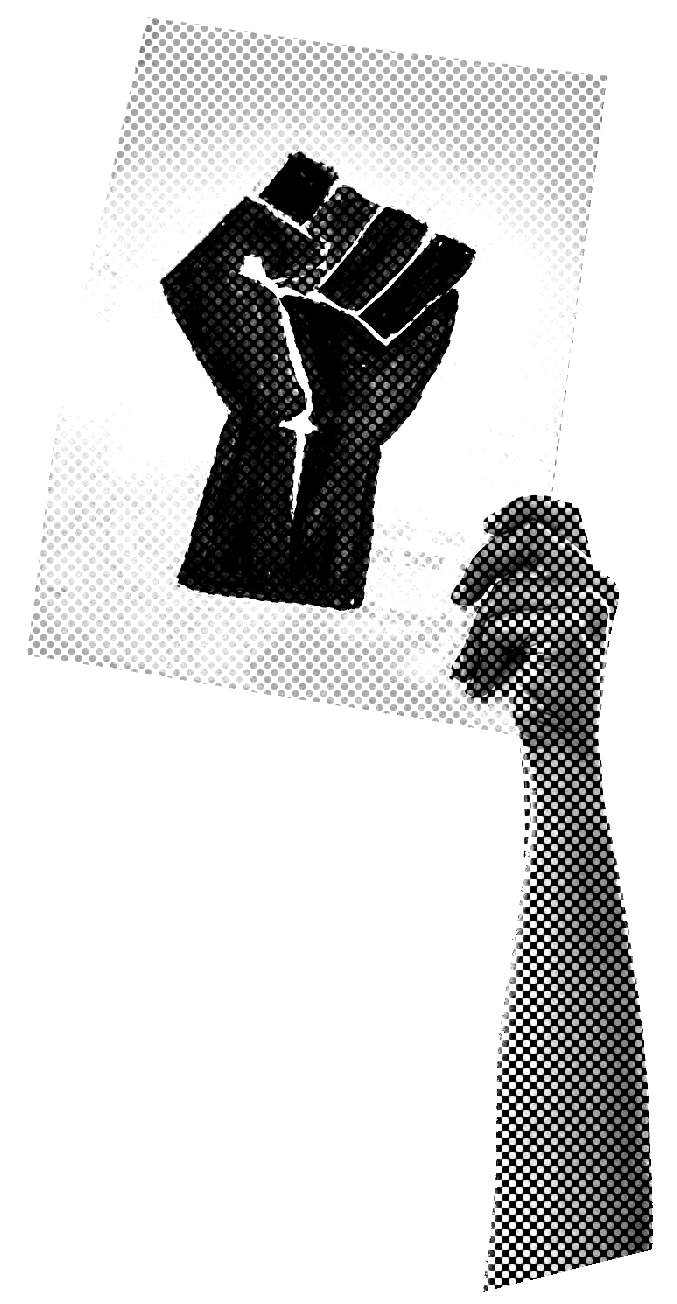
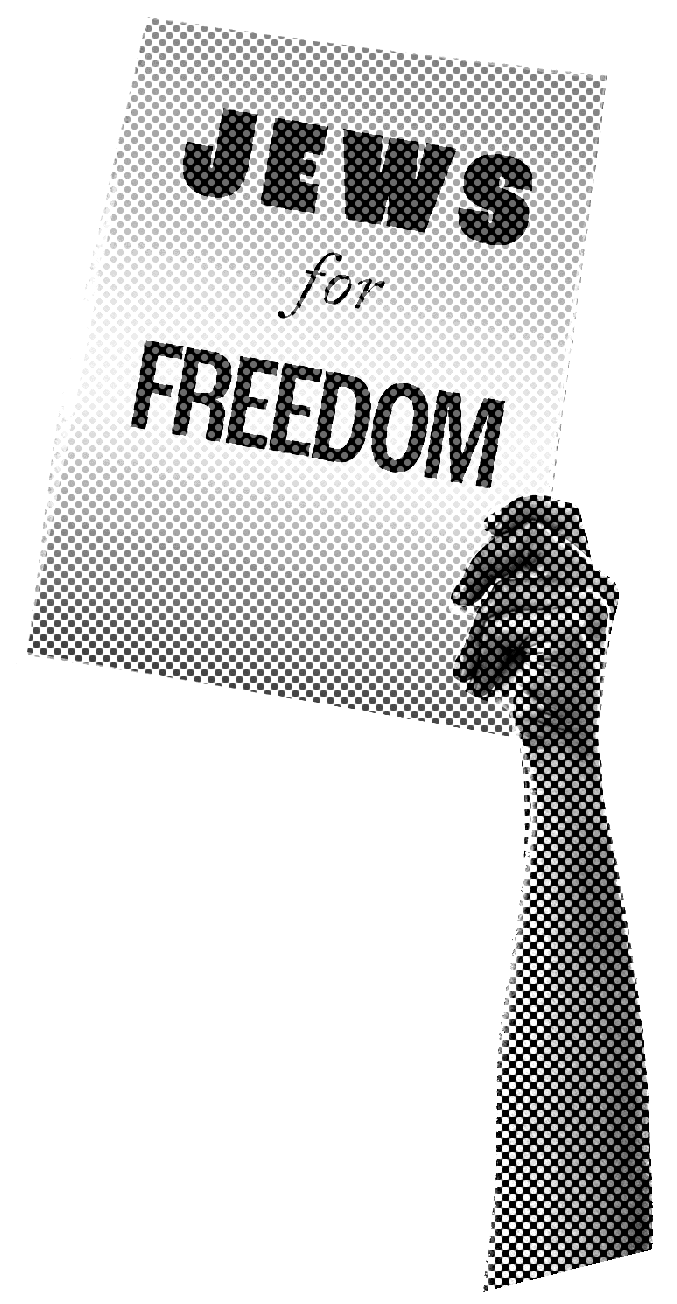
updates images

Changed region(s): [[0.031, 0.0, 0.8996, 0.5828]]

diff --git a/pages/index.vue b/pages/index.vue
@@ -2,8 +2,9 @@
   <div>
     <!-- Hero / Introduction -->
     <section id="hero" class="border-t-4 border-brand-primary overflow-hidden">
-      <div class="py-16 bg-blend-color-burn bg-brand-background bg-cover bg-bottom border-b border-brand-background-dark">
-        <NuxtImg src="/logo-square.png" alt="Jews for Freedom" class="mx-auto" />
+      <div class="pt-16 border-b border-brand-background-dark bg-gradient-to-b from-brand-background-light via-brand-background to-brand-background-dark">
+        <NuxtImg src="/logo-square.png" alt="Jews for Freedom" class="mx-auto md:max-h-[40vh]" />
+        <NuxtImg src="/img/shofar-fist.png"  class="mx-auto pt-8 mix-blend-color-burn md:max-h-[40vh]" />
       </div>
       <NavSmall class="my-6" />
     </section>
@@ -11,17 +12,14 @@
     <section id="introduction" class="overflow-hidden">
       <div class="mx-auto max-w-prose px-4">
         <article class="prose prose-neutral text-xl leading-relaxed max-w-none">
-          <ShapedImage src="/img/arm-poster.png" class="float-right -mr-8 my-0 sm:-mr-14  max-w-[40vw] max-h-[40vh]" />
+          <ShapedImage src="/img/flowers.png" class="float-right -mr-8 mt-16 sm:-mr-14  max-w-[50vw] max-h-[70vh]" />
           <p>Major Jewish organizations and individuals are launching a full-throated and widespread Jewish resistance to authoritarianism as part of a broader multi-faith effort. The overall resistance is occurring across all lines of difference, including race, gender, class, financial status, sexual orientation, age, ability, and religion. Showing up as Jews, as individuals and as communities, is part of a long-standing tradition we take pride in.</p>
         </article>
       </div>
     </section>
 
-    <!-- Parallax Fists -->
-    <ParallaxFists class="h-48 -mb-4 z-0 w-full border-b border-brand-background-dark" />
-
     <!-- Statement -->
-    <section id="statement" class="px-8 py-8 z-10 relative bg-white max-w-3xl mx-auto shadow-[6px_6px_0px_rgba(0,0,0,0.1)]">
+    <section id="statement" class="px-8 py-8 mt-8 z-10 relative bg-white max-w-3xl mx-auto shadow-[6px_6px_0px_rgba(0,0,0,0.1)]">
       <div class="mx-auto max-w-prose">
         <p class="text-sm text-gray-400 uppercase mb-4">Sign <span class="lowercase font-serif italic">the</span> Statement</p>
         <article v-if="statement" class="prose prose-neutral max-w-none">
@@ -29,7 +27,7 @@
         </article>
         <p v-else class="text-sm text-brand-text/60">Loading…</p>
       </div>
-      <div id="embed" class="mx-auto max-w-prose px-4 pt-8">
+      <div id="embed" class="mx-auto max-w-prose pt-8">
         <FormEmbed :customizations="formCustomizations" />
       </div>
     </section>
@@ -39,7 +37,7 @@
     <section id="about" class="py-16 sm:py-24 overflow-hidden">
       <div class="mx-auto max-w-prose px-4">
         <article v-if="aboutUs" class="prose prose-neutral prose-li:marker:text-brand-primary max-w-none">
-          <ShapedImage src="/img/not-now-when-poster.png" :threshold="0.4" class="float-right -mr-8 my-0 sm:-mr-14 max-w-[40vw] max-h-[70vh]" />
+          <ShapedImage src="/img/not-now-when-poster.png" :threshold="0.4" class="float-right -mr-8 my-0 sm:-mr-14 max-w-[50vw] max-h-[90vh]" />
           <h1>About Us</h1>
           <ContentRenderer :value="aboutUs" :data="{}" />
         </article>
@@ -53,17 +51,29 @@
     </section>
 
     <!-- Share / How to Help -->
-    <section id="share" class="py-16 sm:py-24">
+    <section id="share" 
+      class="pt-16 pb-24 sm:py-24 share">
       <div class="mx-auto max-w-prose px-4">
-        <h1 class="mb-6">Spread the Word</h1>
+        <h1 class="mb-6 text-white border-white">Spread the Word</h1>
         <ShareButtons 
           :long-text="statementText"
           :url="siteUrl"
         />
+        <nuxt-link to="/share" class="btn btn-block btn-outline-white mt-4 bg-brand-primary/60">Download Image</nuxt-link>
       </div>
     </section>
+
+    <NuxtImg src="/img/shofar-arm.png" class="mx-auto mix-blend-color-burn mt-16 max-h-[80vh]" />
   </div>
 </template>
+
+<style>
+.share {
+  @apply bg-brand-primary-dark border-t-2 border-brand-primary shadow-md
+  bg-[url('/img/fists-fg.png'),url('/img/fists-mg.png')] bg-repeat-x bg-blend-multiply bg-bottom;
+  background-size: auto 10rem;
+}
+</style>
 
 <script setup lang="ts">
 import FormEmbed from '~/components/FormEmbed.vue'

diff --git a/components/share/Buttons.vue b/components/share/Buttons.vue
@@ -5,7 +5,7 @@
       v-if="supportsWebShare"
       @click="handleWebShare"
       :disabled="isSharing"
-      class="flex items-center justify-center gap-3 px-6 py-3 bg-brand-primary text-white font-bold rounded-lg hover:bg-brand-primary-dark transition-colors disabled:opacity-50 disabled:cursor-not-allowed"
+      class="flex items-center justify-center gap-3 px-6 py-6 shadow-md bg-brand-primary text-white font-bold rounded-lg hover:bg-brand-primary-dark transition-colors disabled:opacity-50 disabled:cursor-not-allowed"
       data-analytics-action="web-share"
     >
       <Icon name="fa6-brands:share-nodes" class="text-xl" />
@@ -13,7 +13,7 @@
     </button>
 
     <!-- Fallback Platform Buttons -->
-    <div class="grid grid-cols-2 sm:grid-cols-3 gap-3">
+    <div class="grid grid-cols-2 sm:grid-cols-3 gap-6">
       <!-- Copy to Clipboard -->
       <button
         @click="handleCopyToClipboard"

diff --git a/components/ShapedImage.vue b/components/ShapedImage.vue
@@ -2,7 +2,7 @@
   <NuxtImg 
     :src="src" 
     :alt="alt"
-    :style="{ shapeOutside: `url('${src}')`, shapeImageThreshold: threshold, shapeMargin: '1rem' }" 
+    :style="{ shapeOutside: `url('${src}')`, shapeImageThreshold: threshold, shapeMargin: margin }" 
     class="shape"
   />
 </template>
@@ -12,11 +12,13 @@ interface Props {
   src: string
   alt?: string
   threshold?: number
+  margin?: string
 }
 
 withDefaults(defineProps<Props>(), {
   alt: '',
-  threshold: 0.2
+  threshold: 0.2,
+  margin: '0.5em'
 })
 </script>
 

diff --git a/assets/css/tailwind.css b/assets/css/tailwind.css
@@ -100,6 +100,12 @@
 		@apply focus:ring-brand-blue-light;
 	}
 
+	.btn-outline-white {
+		@apply bg-transparent border-2 border-white text-white;
+		@apply hover:bg-white hover:text-brand-dark;
+		@apply focus:ring-white/60;
+	}
+
 	.btn-outline-dark {
 		@apply bg-transparent border-2 border-brand-dark text-brand-dark;
 		@apply hover:bg-brand-dark hover:text-white;
